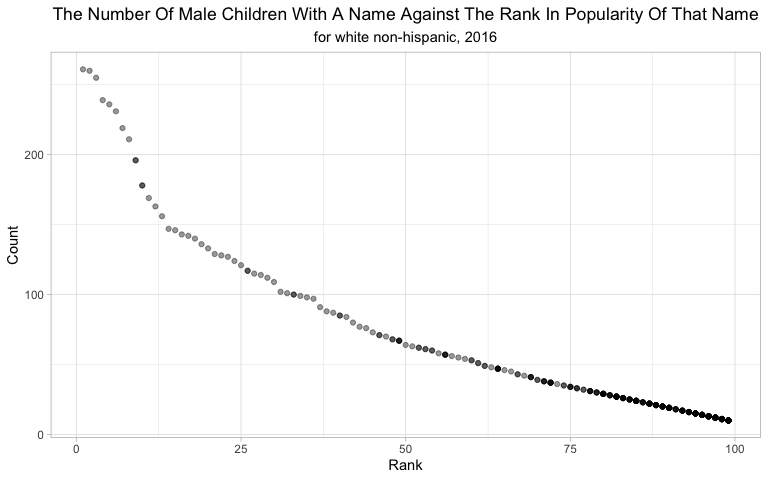
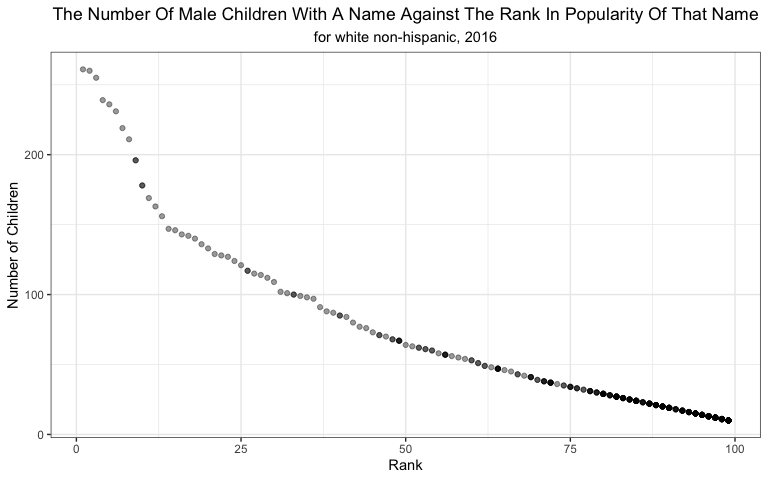
updated datasets & modified the plot 10/02/2019

Changed region(s): [[0.0, 0.375, 0.0312, 0.6562]]

diff --git a/p8105_hw2_zl2860.md b/p8105_hw2_zl2860.md
@@ -5,7 +5,7 @@ Zongchao Liu
 
 # Problem 1
 
-## read and clean the Mr. Trash Wheel sheet
+## Step 1: Read and clean the Mr. Trash Wheel sheet
 
 ``` r
 trash_wheel <- read_excel("./dataset/Trash-Wheel-Collection-Totals-8-6-19.xlsx", sheet = 1) %>%
@@ -15,7 +15,7 @@ trash_wheel <- read_excel("./dataset/Trash-Wheel-Collection-Totals-8-6-19.xlsx",
   mutate(sports_balls = as.integer(round(sports_balls))) # round & convert data type
 ```
 
-## read and clean the precipitation data for 2018 sheet
+## Step 2: Read and clean the precipitation data for 2018 sheet
 
 ``` r
 # clean the data
@@ -25,7 +25,7 @@ prec_2018 <- read_excel("./dataset/Trash-Wheel-Collection-Totals-8-6-19.xlsx", s
   mutate(year = 2018)
 ```
 
-## read and clean the precipitation data for 2017 sheet
+## Step 3: Read and clean the precipitation data for 2017 sheet
 
 ``` r
 #clean the data
@@ -35,7 +35,7 @@ prec_2017 <- read_excel("./dataset/Trash-Wheel-Collection-Totals-8-6-19.xlsx", s
     mutate(year = 2017)
 ```
 
-## combine precipitation datasets and convert month to a character variable
+## Step 4: Combine precipitation datasets and convert month to a character variable
 
 ``` r
 # combine data 
@@ -55,24 +55,25 @@ observations of 3 variables. For the `trash_wheel` dataset, key
 variables are `weight_tons, volume_cubic_yards, plastic_bottles,
 polystyrene, cigarette_butts, glass_bottles, grocery_bags, chip_bags,
 sports_balls, homes_powered`. These variables contain the most core
-information that should be taken into account when researchers raise a
-specific question. In contrast, variables like `dumpster, month, year,
-date` do not contain very specific information like litter type or
-litter volume but serve as important roles for indexing and grouping
-data. When researchers put forward a question like " Is there any
-difference of the total litter weights among different years?“, indexing
-and grouping in the dataset become necessary. Therefore, these variables
-are also important and cannot be dropped without any consideration. For
-the”combined\_17\_18" dataset, the principle is similar. The key
-variable is `total`. The `year` and `month` variables do not indicate
-the amount of trash but serve as unique index for each total value.
+information that should be taken into account for analysis when
+researchers raise a specific question. In contrast, variables like
+`dumpster, month, year, date` do not contain very specific information
+like litter type or litter volume but serve as important roles for
+indexing and grouping data. When researchers put forward a question like
+" Is there any difference of the total litter weights among different
+years?", indexing and grouping in the dataset become necessary.
+Therefore, these variables are also important and cannot be dropped
+without any consideration. For the `combined_17_18` dataset, the
+principle is similar. The key variable is `total`. The `year` and
+`month` variables do not indicate the amount of trash or other
+information but serve as unique index for each total value.
 
 The total precipitation in 2018 was 70.33 and the median number of
 sports balls in a dumpster in 2017 was 8.
 
 # Promblem 2
 
-## clean the data in “pols-month.csv”
+## Step 1: Clean the data in “pols-month.csv”
 
 ``` r
 pols_month <- read_csv("./dataset/pols-month.csv") %>%
@@ -85,7 +86,7 @@ pols_month <- read_csv("./dataset/pols-month.csv") %>%
   select(-day, -prez_dem, -prez_gop)
 ```
 
-## clean the data in “snp.csv”
+## Step 2: Clean the data in “snp.csv”
 
 ``` r
 snp <- read_csv("./dataset/snp.csv") %>%
@@ -95,7 +96,7 @@ snp <- read_csv("./dataset/snp.csv") %>%
   mutate(month = month.abb[as.numeric(month)])
 ```
 
-## tidy the unemployment data
+## Step 3: Tidy the unemployment data
 
 ``` r
 unemployment <- read_csv("./dataset/unemployment.csv") %>%
@@ -109,29 +110,29 @@ unemployment <- read_csv("./dataset/unemployment.csv") %>%
   drop_na(percentage) # drop missing values
 ```
 
-The `percentage` is the key variable of the `unemployment` dataset. I
-dropped these rows with missing values of this variable. The amount of
-the information in the resulting merged dataset will not be changed even
-if I keep these rows in the original dataset.
+The percentage is the key variable of the unemployment dataset. I
+dropped these rows with missing values of this variable before merging
+data.
 
-## join the datasets
+## Step 4: Join the datasets
 
 ``` r
-merged_problem2 <- full_join(full_join(pols_month,snp),unemployment)
+merged_problem2 <- left_join(left_join(pols_month,snp),unemployment)
 ```
 
     ## Joining, by = c("year", "month")
     ## Joining, by = c("year", "month")
 
 ``` r
-# To make sure all of the information is included, I used full_join() to merge the datasets
+# merge datasets
 ```
 
 ## Data Interpretation
 
 The `pols_month` dataset has 822 observations of 9 variables and
-includes the information on the number of national politicians who are
-democratic or republican at any given time.
+includes the information on the number of national
+politicians(Governors, Senators and Representatives) who are democratic
+or republican in each month of the associate year (from 1947 to 2015).
 
 The `snp` dataset has 787 observations of 3 variables and includes the
 information on the closing values of the S\&P stock index on the
@@ -139,16 +140,17 @@ associated date.
 
 The `unemployment` dataset has 810 observations of 3 varaibles and
 includes information on percentage of unemployment in each month of the
-associated year.
+associated year(from 1948 to 2015).
 
-The dimension of the resulting dataset `merged_problem2` is (823,
-11)(823 rows, 11 columns). The range of years is from 1947 to 2015. Key
+The dimension of the resulting dataset `merged_problem2` is (822,
+11)(822 rows, 11 columns). The range of years is from 1947 to 2015. Key
 variables in this dataset are `gov_gop, sen_gop, rep_gop, gov_dem,
-sen_dem, rep_dem, president, close, percentage`.
+sen_dem, rep_dem, president, close, percentage`, which together show an
+overview of the political and economic situations in the United States.
 
 # Problem 3
 
-## Load and tidy the data
+## Step 1: Load and tidy the data
 
 ``` r
 Popular_Baby_Names <- read_csv("./dataset/Popular_Baby_Names.csv") %>%
@@ -160,66 +162,10 @@ Popular_Baby_Names <- read_csv("./dataset/Popular_Baby_Names.csv") %>%
                             "WHITE NON HISP" = "WHITE NON HISPANIC"
                             )),
          childs_first_name = str_to_title(childs_first_name)) %>%
-  distinct()
+  distinct() # remove duplicated rows
 ```
 
-## the rank in popularity of the name “Olivia” as a female baby name over time
-
-``` r
-#The table shows the rank in popularity of the name “Olivia” as a female baby name over time
-changes_of_Olivia <- Popular_Baby_Names %>%
-  filter(childs_first_name == "Olivia") %>%
-  select(ethnicity, rank, year_of_birth) %>%
-  pivot_wider(names_from = year_of_birth,
-              values_from = rank) %>%
-  knitr::kable(caption = paste("Table 2. ",
-                               str_to_title("the rank in popularity of the name Olivia from 2011 to 2016")
-                               )
-               )
-changes_of_Olivia
-```
-
-| ethnicity                    |    2016 |    2015 |    2014 |   2013 |    2012 |                                                                                                               2011 |
-| :--------------------------- | ------: | ------: | ------: | -----: | ------: | -----------------------------------------------------------------------------------------------------------------: |
-| asian and pacific islander   |       1 |       1 |       1 |      3 |       3 |                                                                                                                  4 |
-| black non hispanic           |       8 |       4 |       8 |      6 |       8 |                                                                                                                 10 |
-| hispanic                     |      13 |      16 |      16 |     22 |      22 |                                                                                                                 18 |
-| white non hispanic           |       1 |       1 |       1 |      1 |       4 |                                                                                                                  2 |
-| The `pols_month` dataset has | 822 obs | ervatio | ns of 9 | variab | les and | includes the information on the number of national politicians who are democratic or republican at any given time. |
-
-Table 2. The Rank In Popularity Of The Name Olivia From 2011 To 2016
-
-The `snp` dataset has 787 observations of 3 variables and includes the
-information on the closing values of the S\&P stock index on the
-associated date.
-
-The `unemployment` dataset has 810 observations of 3 varaibles and
-includes information on percentage of unemployment in each month of the
-associated year.
-
-The dimension of the resulting dataset `merged_problem2` is (823,
-11)(823 rows, 11 columns). The range of years is from 1947 to 2015. Key
-variables in this dataset are `gov_gop, sen_gop, rep_gop, gov_dem,
-sen_dem, rep_dem, president, close, percentage`.
-
-# Problem 3
-
-## Load and tidy the data
-
-``` r
-Popular_Baby_Names <- read_csv("./dataset/Popular_Baby_Names.csv") %>%
-  janitor::clean_names() %>%
-  mutate(gender = str_to_lower(gender),
-         ethnicity = str_to_lower(recode(ethnicity,
-                            "ASIAN AND PACI" = "ASIAN AND PACIFIC ISLANDER",
-                            "BLACK NON HISP" = "BLACK NON HISPANIC" ,
-                            "WHITE NON HISP" = "WHITE NON HISPANIC"
-                            )),
-         childs_first_name = str_to_title(childs_first_name)) %>%
-  distinct()
-```
-
-## the rank in popularity of the name “Olivia” as a female baby name over time
+## Step 2: Make a table showing the rank in popularity of the name “Olivia” as a female baby name over time
 
 ``` r
 #The table shows the rank in popularity of the name “Olivia” as a female baby name over time
@@ -245,7 +191,7 @@ changes_of_Olivia
 Table 2. The Rank In Popularity Of The Name Olivia From 2011 To
 2016
 
-## the most popular name among male children over time
+## Step 3: Make a table showing the most popular name among male children over time
 
 ``` r
 # the similar table shows the most popular name among male children over time  
@@ -272,7 +218,7 @@ male_rank
 
 Table 1. The Most Popular Name Among Male Children From 2011 To 2016
 
-## scatter plot
+## Step 4: Make a scatter plot
 
 ``` r
 # create the dataframe for plotting
@@ -283,13 +229,14 @@ male_white_NH_2016 <- Popular_Baby_Names %>%
 
 #use ggplot2 to make a scatter plot
 male_white_NH_2016 %>%
-  ggplot(aes(x= rank, y = count)) +geom_point(
-   alpha = .4)+labs(x="Rank",y="Count", 
+  ggplot(aes(x= rank, y = count)) + 
+  geom_point(alpha = .4) + 
+  labs(x="Rank",y="Number of Children", 
                     title = str_to_title("The Number of Male Children with a Name Against the Rank in Popularity of That Name"),
-                    subtitle = "for white non-hispanic, 2016" )+
-  theme_light()+
+                    subtitle = "for white non-hispanic, 2016" ) +
+  theme_bw() +
   theme(plot.title = element_text(hjust = 0.5),
         plot.subtitle =element_text(hjust = 0.5) )
 ```
 
-![](p8105_hw2_zl2860_files/figure-gfm/unnamed-chunk-14-1.png)<!-- -->
+![](p8105_hw2_zl2860_files/figure-gfm/unnamed-chunk-12-1.png)<!-- -->
